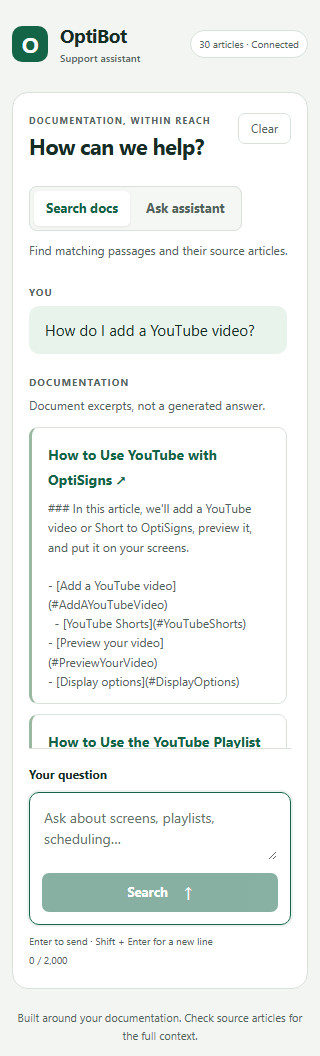
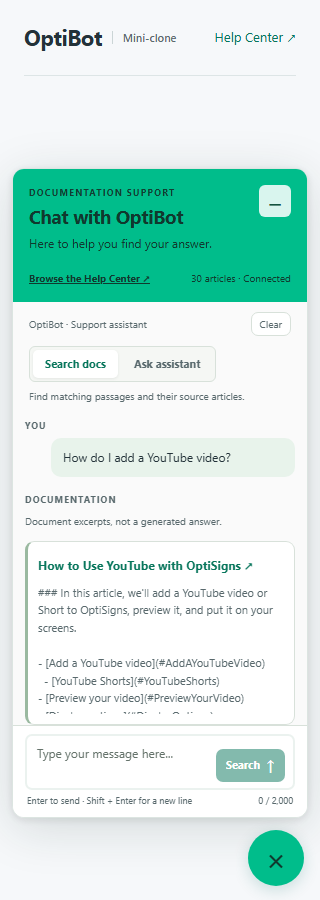
feat: match reference support widget and review assignment gates

diff --git a/frontend/public/index.html b/frontend/public/index.html
@@ -10,40 +10,32 @@
   <script src="/app.js" defer></script>
 </head>
 <body>
-  <a class="skip-link" href="#question">Skip to question</a>
-  <div class="shell">
-    <header class="topbar">
-      <a class="brand" href="/"><span class="brand-mark" aria-hidden="true">o</span><span>OptiBot<small>Support assistant</small></span></a>
-      <span id="connection" class="connection" role="status">Connecting to your library…</span>
-    </header>
-    <main class="workspace">
-      <aside class="sidebar" aria-labelledby="library-heading">
-        <p class="eyebrow">Your knowledge base</p>
-        <h2 id="library-heading">Answers start here.</h2>
-        <p>Explore the support library and open the original articles to check every detail.</p>
-        <div class="library-stat"><strong id="article-count">—</strong><span>indexed articles</span></div>
-        <a class="text-link" href="https://support.optisigns.com/" target="_blank" rel="noopener noreferrer">Visit the Help Center <span aria-hidden="true">↗</span></a>
-        <div class="sidebar-note"><span class="note-icon" aria-hidden="true">↳</span><p>Search returns document excerpts. Ask assistant creates a response using the uploaded documentation.</p></div>
-      </aside>
+  <a class="skip-link" href="#open-chat">Skip to chat</a>
+  <main class="demo-page">
+    <header class="demo-header"><a class="brand" href="/">OptiBot <span>Mini-clone</span></a><a href="https://support.optisigns.com/" target="_blank" rel="noopener noreferrer">Help Center &#8599;</a></header>
+    <section class="demo-intro"><p class="eyebrow">SUPPORT, A CLICK AWAY</p><h1>Your questions.<br>Our documentation.</h1><p>Get help with screens, playlists and schedules. Open the chat in the corner to start.</p><button id="open-chat" class="primary-button" type="button">Chat with OptiBot <span aria-hidden="true">&#8599;</span></button><p class="demo-note">Local take-home demo &middot; <span id="article-count">&mdash;</span> indexed articles</p></section>
+    <div class="demo-decoration" aria-hidden="true"><div></div><div></div><div></div></div>
+  </main>
+  <aside id="chat-widget" class="chat-widget" aria-labelledby="chat-heading" hidden>
       <section class="chat" aria-labelledby="chat-heading">
-        <div class="chat-header"><div><p class="eyebrow">Documentation, within reach</p><h1 id="chat-heading">How can we help?</h1></div><button id="clear" class="quiet-button" type="button" disabled>Clear</button></div>
+        <header class="chat-header"><div><p class="eyebrow">DOCUMENTATION SUPPORT</p><h2 id="chat-heading">Chat with OptiBot</h2><p>Here to help you find your answer.</p></div><button id="close-chat" class="header-button" type="button" aria-label="Close chat">&#8722;</button><div class="support-link"><a href="https://support.optisigns.com/" target="_blank" rel="noopener noreferrer">Browse the Help Center &#8599;</a><span id="connection" role="status">Connecting...</span></div></header>
+        <div class="chat-tools"><span>OptiBot &middot; Support assistant</span><button id="clear" class="quiet-button" type="button" disabled>Clear</button></div>
         <fieldset class="mode-switch"><legend class="sr-only">Response mode</legend><label><input type="radio" name="mode" value="search" checked><span>Search docs</span></label><label><input type="radio" name="mode" value="answer"><span>Ask assistant</span></label></fieldset>
         <p id="mode-help" class="mode-help">Find matching passages and their source articles.</p>
         <div id="setup-message" class="setup-message" role="status" hidden></div>
         <div class="conversation-area" tabindex="0" role="region" aria-label="Search and answer results">
-          <div id="empty" class="empty-state"><div class="document-icon" aria-hidden="true"><span></span><span></span><span></span></div><h2>What would you like to know?</h2><p>Start with a question, or try one of these.</p><div class="suggestions"><button type="button" data-question="How do I add a YouTube video?">Add a YouTube video <span aria-hidden="true">↗</span></button><button type="button" data-question="How do I create a schedule?">Create a schedule <span aria-hidden="true">↗</span></button><button type="button" data-question="How do I pair a screen?">Pair a screen <span aria-hidden="true">↗</span></button></div></div>
+          <div id="empty" class="empty-state"><div class="bot-avatar" aria-hidden="true">O</div><div class="welcome-bubble"><h3>Hi, I'm OptiBot.</h3><p>I can help with OptiSigns questions using the support documentation.</p></div><div class="suggestion-bubble"><p>Common questions to get started</p><div class="suggestions"><button type="button" data-question="How do I add a YouTube video?">Add a YouTube video</button><button type="button" data-question="How do I create a schedule?">Create a schedule</button><button type="button" data-question="How do I pair a screen?">Pair a screen</button></div></div></div>
           <div id="messages" class="messages" role="log" aria-live="polite" aria-relevant="additions" aria-label="Conversation"></div>
           <div id="loading" class="loading-state" role="status" hidden><span class="loading-dot" aria-hidden="true"></span><span id="loading-label">Searching your documents…</span></div>
           <div id="error" class="error-state" role="alert" hidden><strong id="error-title">Request not completed</strong><p id="error-message"></p><button id="switch-search" class="text-button" type="button" hidden>Use document search instead</button></div>
         </div>
         <form id="chat-form" class="composer">
-          <label for="question">Your question</label>
-          <div class="input-wrap"><textarea id="question" name="question" rows="2" maxlength="2000" placeholder="Ask about screens, playlists, scheduling…" aria-describedby="input-help" required></textarea><button id="send" class="send-button" type="submit" disabled>Search <span aria-hidden="true">↑</span></button></div>
+          <label for="question" class="sr-only">Your question</label>
+          <div class="input-wrap"><textarea id="question" name="question" rows="2" maxlength="2000" placeholder="Type your message here..." aria-describedby="input-help" required></textarea><button id="send" class="send-button" type="submit" disabled>Search <span aria-hidden="true">↑</span></button></div>
           <p id="input-help" class="input-help">Enter to send · Shift + Enter for a new line <span id="character-count">0 / 2,000</span></p>
         </form>
       </section>
-    </main>
-    <footer>Built around your documentation. Check source articles for the full context.</footer>
-  </div>
+  </aside>
+  <button id="chat-launcher" class="chat-launcher" type="button" aria-label="Open support chat" aria-expanded="false" aria-controls="chat-widget"><svg viewBox="0 0 24 24" width="26" height="26" aria-hidden="true"><path d="M5 4h14a2 2 0 0 1 2 2v10a2 2 0 0 1-2 2h-7l-6 4v-4H5a2 2 0 0 1-2-2V6a2 2 0 0 1 2-2Z" fill="none" stroke="currentColor" stroke-width="1.7"/><path d="M7 9h10M7 13h7" stroke="currentColor" stroke-width="1.7"/></svg><span class="launcher-close" aria-hidden="true">&#215;</span></button>
 </body>
 </html>

diff --git a/frontend/public/styles.css b/frontend/public/styles.css
@@ -87,3 +87,29 @@ footer { color: var(--muted); font-size: 11px; text-align: center; padding: 20px
 @media (max-width: 800px) { .shell { padding: 16px; } .workspace { grid-template-columns: minmax(0, 1fr); } .sidebar { display: none; } .chat { padding: 24px; } .topbar { margin-bottom: 16px; } }
 @media (max-width: 420px) { .shell { padding: 12px; } .brand { font-size: 19px; } .brand-mark { width: 36px; height: 36px; font-size: 30px; } .brand small { font-size: 10px; } .connection { max-width: 135px; text-align: center; font-size: 10px; padding: 5px 8px; } .chat { padding: 20px 16px; } h1 { font-size: 22px; } .chat-header .eyebrow { font-size: 9px; } .input-wrap { flex-direction: column; align-items: stretch; } .send-button { justify-content: center; } .input-help { flex-direction: column; gap: 3px; } .mode-switch span { padding: 7px 12px; } }
 @media (prefers-reduced-motion: reduce) { .loading-dot { animation: none; } }
+
+/* Floating support widget, following the assignment's visual reference. */
+:root { --page: #f6f8fa; --green: #08765c; --ink: #233239; --muted: #59696d; }
+.demo-page { min-height: 100vh; overflow: hidden; position: relative; padding: 0 7vw; }
+.demo-header { display: flex; justify-content: space-between; align-items: center; min-height: 94px; border-bottom: 1px solid #dde5e6; }
+.demo-header .brand { font-size: 22px; gap: 10px; }.brand > span { font-size: 11px; font-weight: 500; color: var(--muted); border-left: 1px solid #cbd5d6; padding-left: 10px; letter-spacing: 0; }
+.demo-header > a:last-child { font-size: 13px; text-decoration: none; }
+.demo-intro { max-width: 570px; padding: 12vh 0 80px; position: relative; z-index: 1; }
+.demo-intro h1 { font-size: clamp(38px,5vw,68px); line-height: 1.12; font-weight: 650; letter-spacing: -2px; }
+.demo-intro > p:not(.eyebrow) { max-width: 380px; color: var(--muted); margin: 24px 0; }
+.primary-button { border: 0; border-radius: 7px; background: var(--green); color: #fff; padding: 13px 20px; font-size: 14px; }.primary-button span { margin-left: 18px; }
+.demo-intro .demo-note { font-size: 11px; }.demo-decoration { position: absolute; right: 12%; top: 35%; transform: rotate(-12deg); opacity: .6; }.demo-decoration div { width: 220px; height: 130px; border: 1px solid #c9dcd5; border-radius: 14px; background: #eaf1ed; margin-bottom: -95px; transform: translateX(20px); }.demo-decoration div:nth-child(2) { transform: translateX(-10px) rotate(9deg); }.demo-decoration div:last-child { transform: translateX(-45px) rotate(18deg); }
+.chat-widget { position: fixed; z-index: 10; right: 28px; bottom: 98px; width: 380px; height: min(650px,calc(100dvh - 122px)); border-radius: 12px; background: #fafafa; box-shadow: 0 10px 50px #172c2526,0 2px 8px #172c251a; overflow: hidden; border: 1px solid #dce5e1; }
+.chat { height: 100%; padding: 0; min-width: 0; }
+.chat-header { position: relative; display: flex; flex-wrap: wrap; padding: 22px 20px 16px; color: white; background: #00bd8b; flex-shrink: 0; gap: 0; }
+.chat-header .eyebrow { color: #123e32; font-size: 9px; margin: 0 0 5px; }.chat-header h2 { margin: 0; font-size: 20px; line-height: 1.3; letter-spacing: -.4px; color: #10392e; }.chat-header p:not(.eyebrow) { font-size: 12px; margin: 5px 0 0; color: #10392e; }
+.header-button { margin-left: auto; border: 0; background: #ffffffd9; color: #15533f; width: 32px; height: 32px; border-radius: 6px; font-size: 25px; line-height: 1; }
+.support-link { display: flex; justify-content: space-between; flex-wrap: wrap; gap: 8px; width: 100%; margin-top: 17px; font-size: 10px; }.support-link a { color: #10392e; font-weight: 650; }.support-link #connection { color: #10392e; }
+.chat-tools { display: flex; justify-content: space-between; align-items: center; padding: 10px 16px 0; font-size: 10px; color: var(--muted); }.quiet-button { font-size: 10px; padding: 3px 8px; }
+.mode-switch { margin: 10px 16px 0; padding: 3px; border-radius: 6px; }.mode-switch span { font-size: 11px; padding: 5px 12px; }.mode-help { margin: 6px 16px 0; font-size: 10px; }
+.conversation-area { min-height: 0; max-height: none; padding: 18px 16px; overscroll-behavior: contain; }.empty-state { padding: 0; text-align: left; display: grid; grid-template-columns: 28px minmax(0,1fr); gap: 10px; align-items: start; }.bot-avatar { border: 1px solid #ceddd7; width: 28px; height: 28px; border-radius: 50%; color: #08765c; background: #e6f4ed; font-size: 14px; display: grid; place-items: center; font-weight: 700; }.welcome-bubble,.suggestion-bubble { padding: 12px; border-radius: 7px; background: #ecefef; font-size: 12px; }.welcome-bubble h3 { font-size: 12px; margin: 0 0 5px; }.welcome-bubble p,.suggestion-bubble p { margin: 0; }.suggestion-bubble { grid-column: 2; }.suggestion-bubble > p { font-size: 11px; margin-bottom: 8px; }.suggestions { gap: 3px; }.suggestions button { border: 0; border-radius: 3px; padding: 4px 0; background: transparent; text-decoration: underline; font-size: 11px; color: #08765c; }.suggestions button:hover { background: #e0eae6; }
+.messages { gap: 15px; }.message-label { font-size: 9px; }.question-text { padding: 10px 12px; font-size: 12px; margin-left: 26px; }.answer-text { font-size: 12px; background: #ecefef; border-radius: 7px; padding: 12px; }.result-notice { font-size: 10px; }.sources { gap: 7px; }.source { background: white; padding: 10px; }.source a { font-size: 12px; }.source p { font-size: 11px; max-height: 130px; }.error-state,.setup-message { font-size: 11px; padding: 10px; }.setup-message { margin: 8px 16px 0; }.loading-state { font-size: 11px; }.no-results { font-size: 11px; }
+.composer { flex-shrink: 0; padding: 10px 14px; background: white; }.input-wrap { padding: 6px 8px; border: 0; border-radius: 5px; gap: 7px; flex-direction: row; align-items: flex-end; }.input-wrap textarea { min-height: 36px; max-height: 90px; resize: none; font-size: 12px; }.send-button { padding: 7px 10px; font-size: 11px; gap: 6px; }.input-help { font-size: 9px; margin-top: 5px; flex-direction: row; gap: 5px; }
+.chat-launcher { position: fixed; z-index: 11; right: 28px; bottom: 24px; width: 56px; height: 56px; display: grid; place-items: center; border: 0; border-radius: 50%; background: #00bd8b; color: #10392e; box-shadow: 0 4px 16px #0a695d30; }.chat-launcher:hover { background: #00aa7e; }.launcher-close { display: none; font-size: 32px; line-height: 1; }.chat-launcher[aria-expanded="true"] svg { display: none; }.chat-launcher[aria-expanded="true"] .launcher-close { display: block; }
+@media (max-width: 600px) { .demo-page { padding: 0 24px; }.demo-header { min-height: 76px; }.demo-intro { padding-top: 12vh; }.demo-decoration { display: none; }.chat-widget { right: 12px; bottom: 82px; width: min(380px,calc(100vw - 24px)); height: min(650px,calc(100dvh - 98px)); }.chat-launcher { right: 16px; bottom: 14px; }.chat { padding: 0; }.chat-header { padding: 16px; }.chat-header h2 { font-size: 19px; }.conversation-area { padding: 14px 12px; } }
+@media (max-height: 540px) { .chat-widget { bottom: 12px; right: 84px; height: calc(100dvh - 24px); }.mode-help { display: none; }.chat-header { padding: 10px 16px; }.support-link { margin-top: 8px; } }

diff --git a/frontend/public/app.js b/frontend/public/app.js
@@ -124,3 +124,19 @@ document.querySelectorAll("[data-question]").forEach((button) => button.addEvent
 byId("switch-search").addEventListener("click", () => { document.querySelector('input[value="search"]').checked = true; updateControls(); input.focus(); });
 byId("clear").addEventListener("click", () => { byId("messages").replaceChildren(); byId("empty").hidden = false; byId("error").hidden = true; updateControls(); input.focus(); });
 checkHealth();
+
+const widget = byId("chat-widget");
+const launcher = byId("chat-launcher");
+function setChatOpen(open) {
+  widget.hidden = !open;
+  launcher.setAttribute("aria-expanded", String(open));
+  launcher.setAttribute("aria-label", open ? "Close support chat" : "Open support chat");
+  if (open) input.focus({ preventScroll: true });
+  else launcher.focus({ preventScroll: true });
+}
+launcher.addEventListener("click", () => setChatOpen(widget.hidden));
+byId("open-chat").addEventListener("click", () => setChatOpen(true));
+byId("close-chat").addEventListener("click", () => setChatOpen(false));
+widget.addEventListener("keydown", (event) => {
+  if (event.key === "Escape") { event.preventDefault(); setChatOpen(false); }
+});

diff --git a/docs/final-review.md b/docs/final-review.md
@@ -1,0 +1,25 @@
+# Assignment and reference-widget review
+
+Reviewed 2026-10-30 against the user's newly pasted take-home text, the previously retrieved Google Doc and the supplied visual reference. Assignment requirements are assessment criteria; they do not authorize spending, creating accounts or submitting work. The user separately requested implementation of the local widget.
+
+## Findings that still prevent calling the submission complete
+
+1. **Step 2: provider UI and actual generated answers.** Thirty files are API-indexed and actual retrieval succeeds, but the required provider-UI YouTube answer screenshot is missing. A custom-widget retrieval screenshot is not equivalent. Generated-answer checks last failed because the API project had exhausted credits. Prompt instructions and mocked tests do not prove live factual correctness, refusal behavior or the five-bullet/three-URL limits. Those remain live acceptance checks.
+2. **Step 2: exact embedded chunks.** File totals are known; managed metadata does not expose an exact embedded-chunk total in the inspected API. It is reported as unavailable, not substituted with file counts. Resolve the telemetry expectation before claiming compliance.
+3. **Step 12 and Part 2: live product evidence and candidate ownership.** Brief A is stated at the top and all four domains are covered in the proposal, with ordered milestones, assumptions, estimates and rationale. The user has not explored SCIO. Current-product observations and a candidate rehearsal are still required; proposed replacement/scheduling/offline policies must not be presented as observed SCIO behavior.
+4. **Combined submission.** README is concise and includes setup, local run and real cloud logs, but the required provider-answer screenshot is still absent. First automatic cron execution is separately unobserved; manually triggered cloud persistence/delta checks have passed. Both parts should be submitted together with actual cuts and time spent disclosed. No passing grade is guaranteed by these checks.
+
+## Verified implementation
+
+- Scraping and Markdown: at least 30 stable articles, source URLs, preserved structure/media links, semantic hashes and representative live spot checks.
+- Python vector ingestion: API upload, reused store, completed indexing, persisted remote IDs and delta/recovery behavior. Responses/file search replaces the retired Assistants path; evaluator acceptance of current provider-UI terminology remains an external question.
+- Daily job: one-shot Docker `main.py`, key aliases, daily GitHub Actions schedule, trusted state restoration, visible logs and 30 unchanged skips in a fresh authenticated cloud run.
+- Repository: `Optibot` avoids the prohibited company string; `.env.sample` and ignore rules are present. Secrets are server-side and excluded from client code/state evidence.
+- Local UI: floating round launcher, compact panel, green header, greeting, suggested questions, message composer and explicit search/answer modes. It now follows the reference's interaction pattern; it is not a pixel-perfect copy or a claim of live human support.
+- Part 2: planning document only. No Assets/Playlists/Schedules/Screens application is required by the assignment. The proposed eight-week implementation estimate is separate from the ten-hour planning allowance.
+
+## Verification and limits
+
+The full local suite passes: 38 Python tests and seven browser tests. Browser tests cover safe text rendering, source links, loading/duplicate-send prevention, empty/error states, keyboard operation, launcher/draft/focus behavior, narrow/short viewport fit and automated WCAG A/AA checks. Actual widget retrieval returns the YouTube guide first with three sources, no page JavaScript errors and no mobile horizontal overflow. Desktop and mobile screenshots were visually inspected. Automated accessibility checks are not a complete manual accessibility audit.
+
+Evidence: [local widget check](evidence/local-web-check.json), [desktop](evidence/local-chat-search.png), [mobile](evidence/local-chat-mobile.png), [last verified cloud run](evidence/cloud-run-41076345213.json). See [checklist](../tasks/todo.md), [full requirement review](requirements-review.md), [product study guide](scio-product-observations.md) and [run instructions](run.md).

diff --git a/tasks/todo.md b/tasks/todo.md
@@ -177,10 +177,18 @@ This is the user-requested local demo, separate from the assignment's provider U
 - [x] Add local FastAPI server, health/search/answer endpoints and server-side key handling.
 - [x] Add frontend with actual article retrieval, source links, explicit generation errors and mobile layouts.
 - [x] Test input/origin/body limits, private-file exclusions, provider failures and citation mapping: 38 Python tests pass locally.
-- [x] Test keyboard search, safe text rendering, duplicate-send protection, quota fallback, empty results and unavailable backend: six browser tests pass locally.
+- [x] Test keyboard search, safe text rendering, duplicate-send protection, quota fallback, empty results and unavailable backend: seven browser tests pass locally, including widget opening/closing, focus return and draft preservation.
 - [x] Check WCAG A/AA rules at narrow/desktop widths: no automated axe violations; no horizontal overflow at 320/768/1024/1440 pixels.
 - [x] Verify the actual UI against the existing store: 30 indexed articles, three YouTube sources, no page JavaScript errors. Save clearly labeled local screenshots and JSON evidence.
 - [x] Write root README, detailed server/frontend run instructions, frontend README and API contract.
 - [x] Verify Windows/Linux Python checks, Docker build and the browser CI job: run 41076324216 passed. Fresh cloud run 41076345213 restored state and skipped all 30 articles with zero failures.
 
 Remaining original checkboxes above still require genuine provider/product/human evidence. Automated local UI checks cannot complete them.
+
+## Reference widget and pasted-assignment review
+
+- [x] Read the newly pasted assignment and review both parts against current evidence.
+- [x] Adapt the local frontend to the supplied reference: bottom-right launcher, compact green-header panel, greeting, suggested questions and composer.
+- [x] Verify Escape/close/reopen preserves drafts, restores focus and fits narrow/short viewports.
+- [x] Recheck actual YouTube retrieval and capture current desktop/mobile widget screenshots.
+- [x] Record assignment findings and open submission gates in `docs/final-review.md`.

diff --git a/docs/verification.md b/docs/verification.md
@@ -64,3 +64,7 @@ The local FastAPI API and static frontend are implemented. All **38 Python tests
 An actual browser search against the existing remote index returned three sources with the YouTube guide first, no page JavaScript errors and no mobile horizontal overflow. A real generation attempt still returned the exhausted-credit error. [Live local UI evidence](evidence/local-web-check.json), [desktop screenshot](evidence/local-chat-search.png), [mobile screenshot](evidence/local-chat-mobile.png). These are custom UI retrieval screenshots, not the required provider-UI answer screenshot. Keys and internal provider IDs are excluded from public API results. The app is bound to loopback and is not deployed as a public service.
 
 [CI run 41076324216](https://github.com/linhuachung/Optibot/actions/runs/41076324216) passed the 38-test Python suite on Windows/Linux, Docker build/entry-point check and six browser regressions. [CI evidence](evidence/local-ui-ci.json). [Fresh cloud run 41076345213](https://github.com/linhuachung/Optibot/actions/runs/41076345213) restored the prior state with the new dependency set and finished with added=0, updated=0, skipped=30, failed=0. It retained 30 committed articles, zero pending operations and the same state digest. [Cloud evidence](evidence/cloud-run-41076345213.json). Both dependency audits found zero known vulnerabilities at verification time. Source/credential-pattern checks and Git diff whitespace checks passed.
+
+## Reference widget update
+
+The frontend now follows the assignment screenshot's floating-widget pattern, with a bottom-right launcher, green header, greeting, suggested questions and composer. Seven browser tests and all 38 Python tests pass locally. Launcher/close/Escape, focus return, draft preservation and narrow/short viewport fit are covered. Refreshed live retrieval evidence and desktop/mobile screenshots were inspected; zero automated axe violations or page errors were observed. See [complete assignment review](final-review.md). No provider answer screenshot or live SCIO study is claimed.

diff --git a/frontend/README.md b/frontend/README.md
@@ -18,4 +18,4 @@ On this workspace, replace `python` with `.\.runtime\python\python.exe` if Pytho
 
 The frontend contains no API key and renders provider text as text, not HTML. Search mode shows real document excerpts; Ask assistant requires funded API credits. This is a local demo and does not replace the assignment's provider-UI screenshot.
 
-Design contract: a quiet green/neutral support workspace; one primary question action, visible search/answer distinction, source articles alongside response content, labelled input and keyboard controls. Empty/loading/error/result/setup states are explicit. A single column replaces the library sidebar on small screens. No existing product design assets were supplied; the layout and colors are project-local assumptions to verify in browser checks.
+Design contract: a floating support widget following the reference in the assignment. A green header, bot greeting, suggested questions and bottom composer sit above a round bottom-right launcher. Open/close controls and Escape preserve the conversation and draft; focus returns to the launcher on close. It fits narrow and short viewports. Human support availability/contact details are not simulated. Search/answer modes remain explicit, and generated-answer quota errors are shown honestly.
